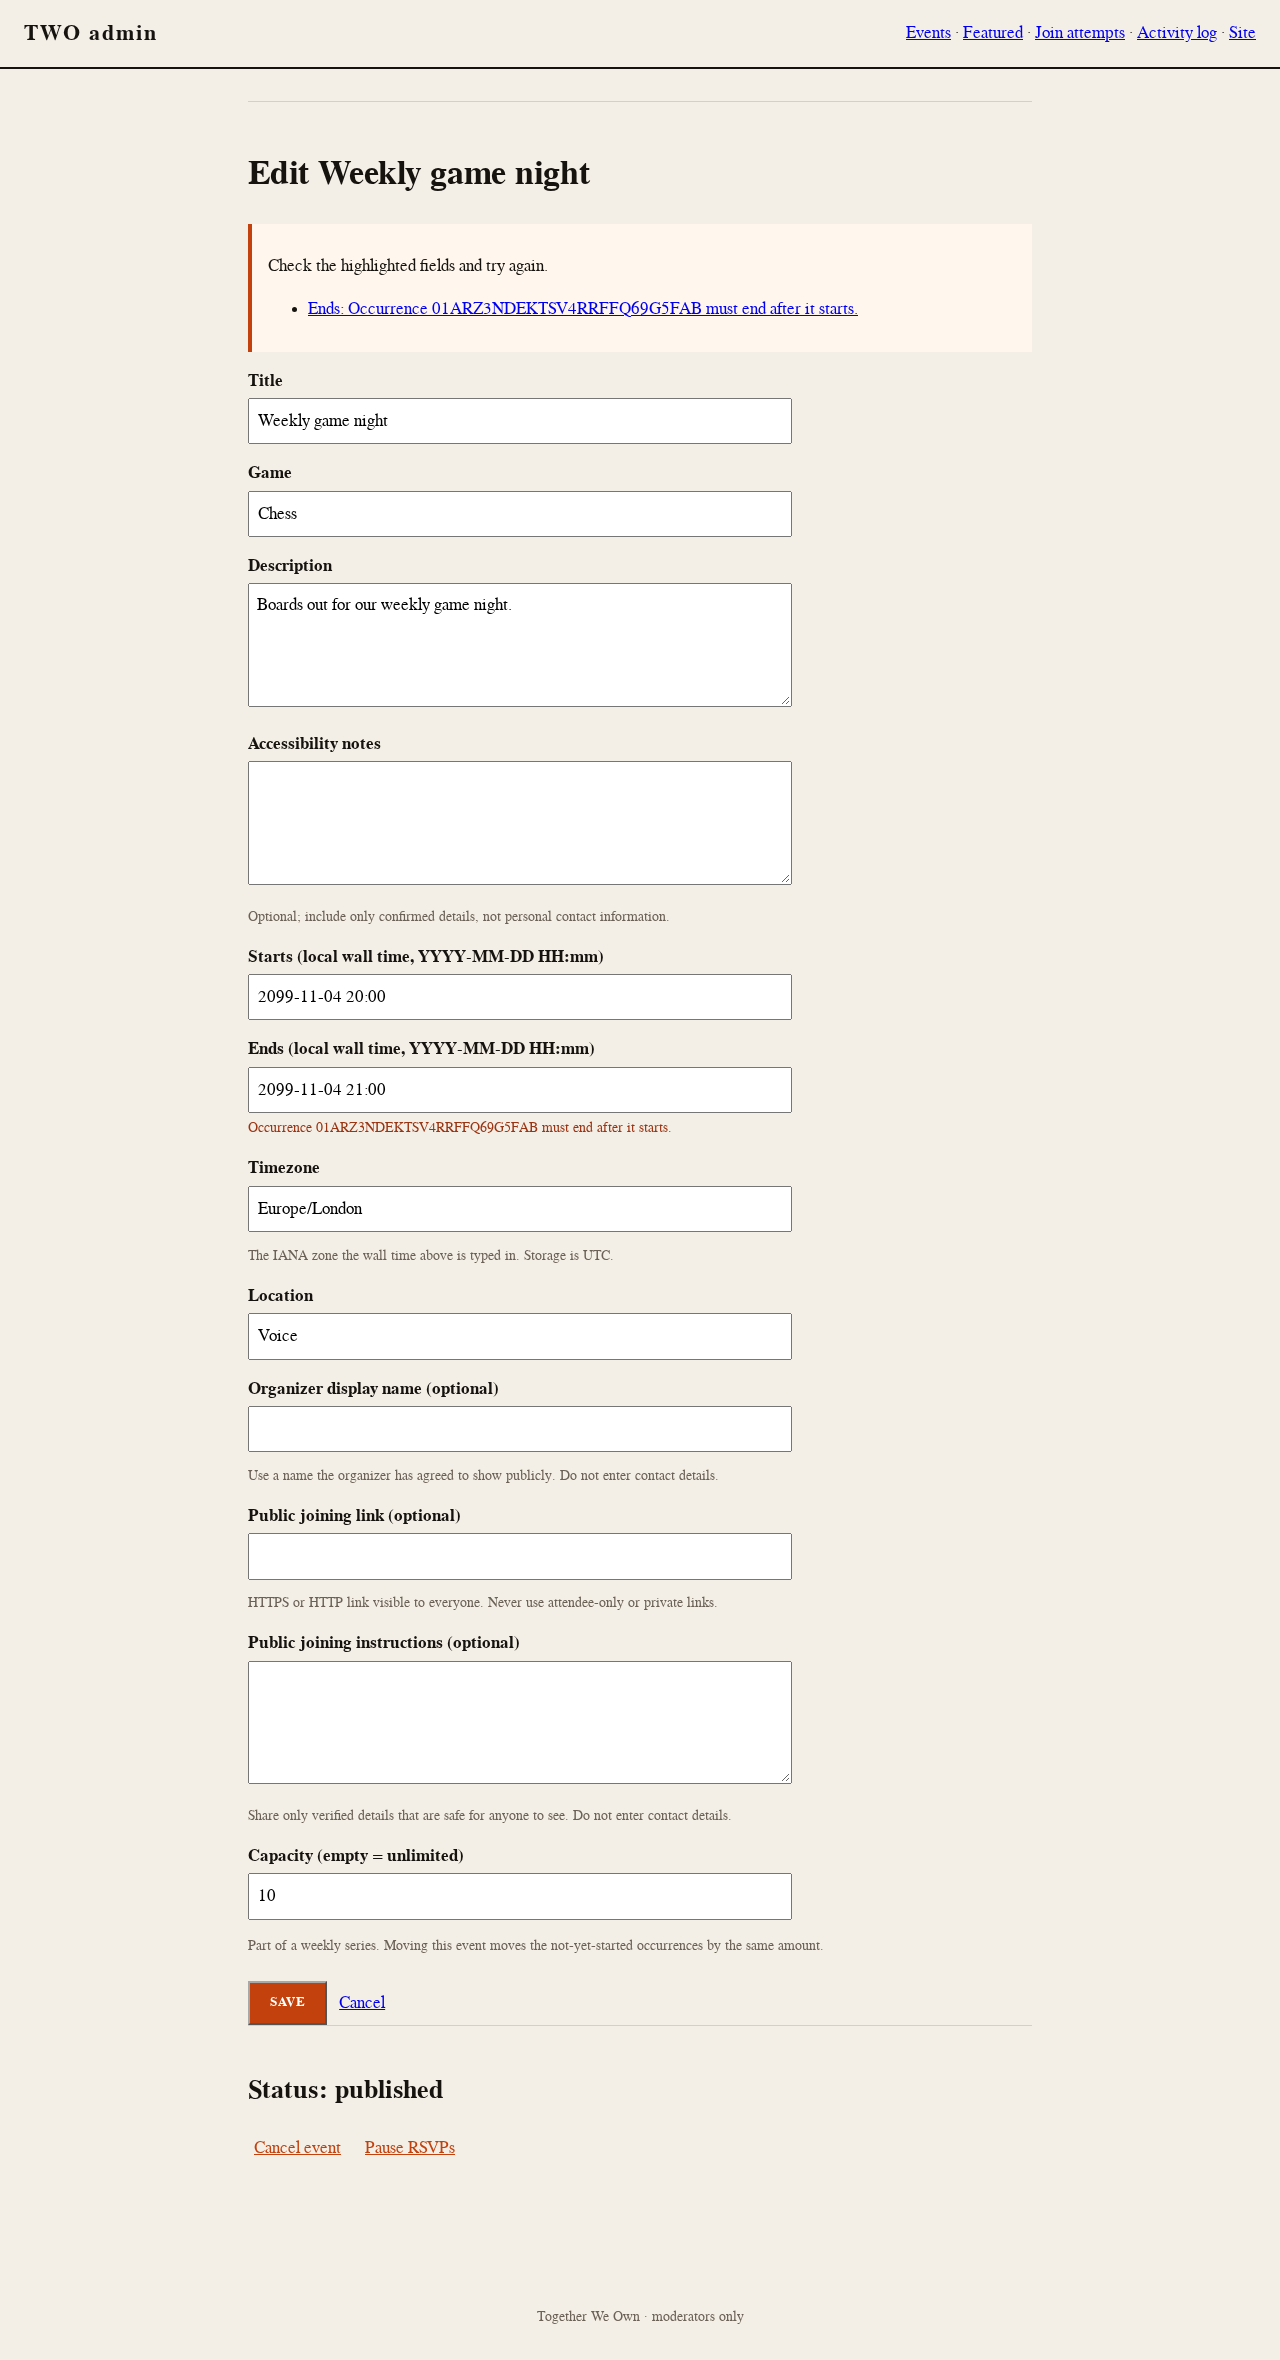
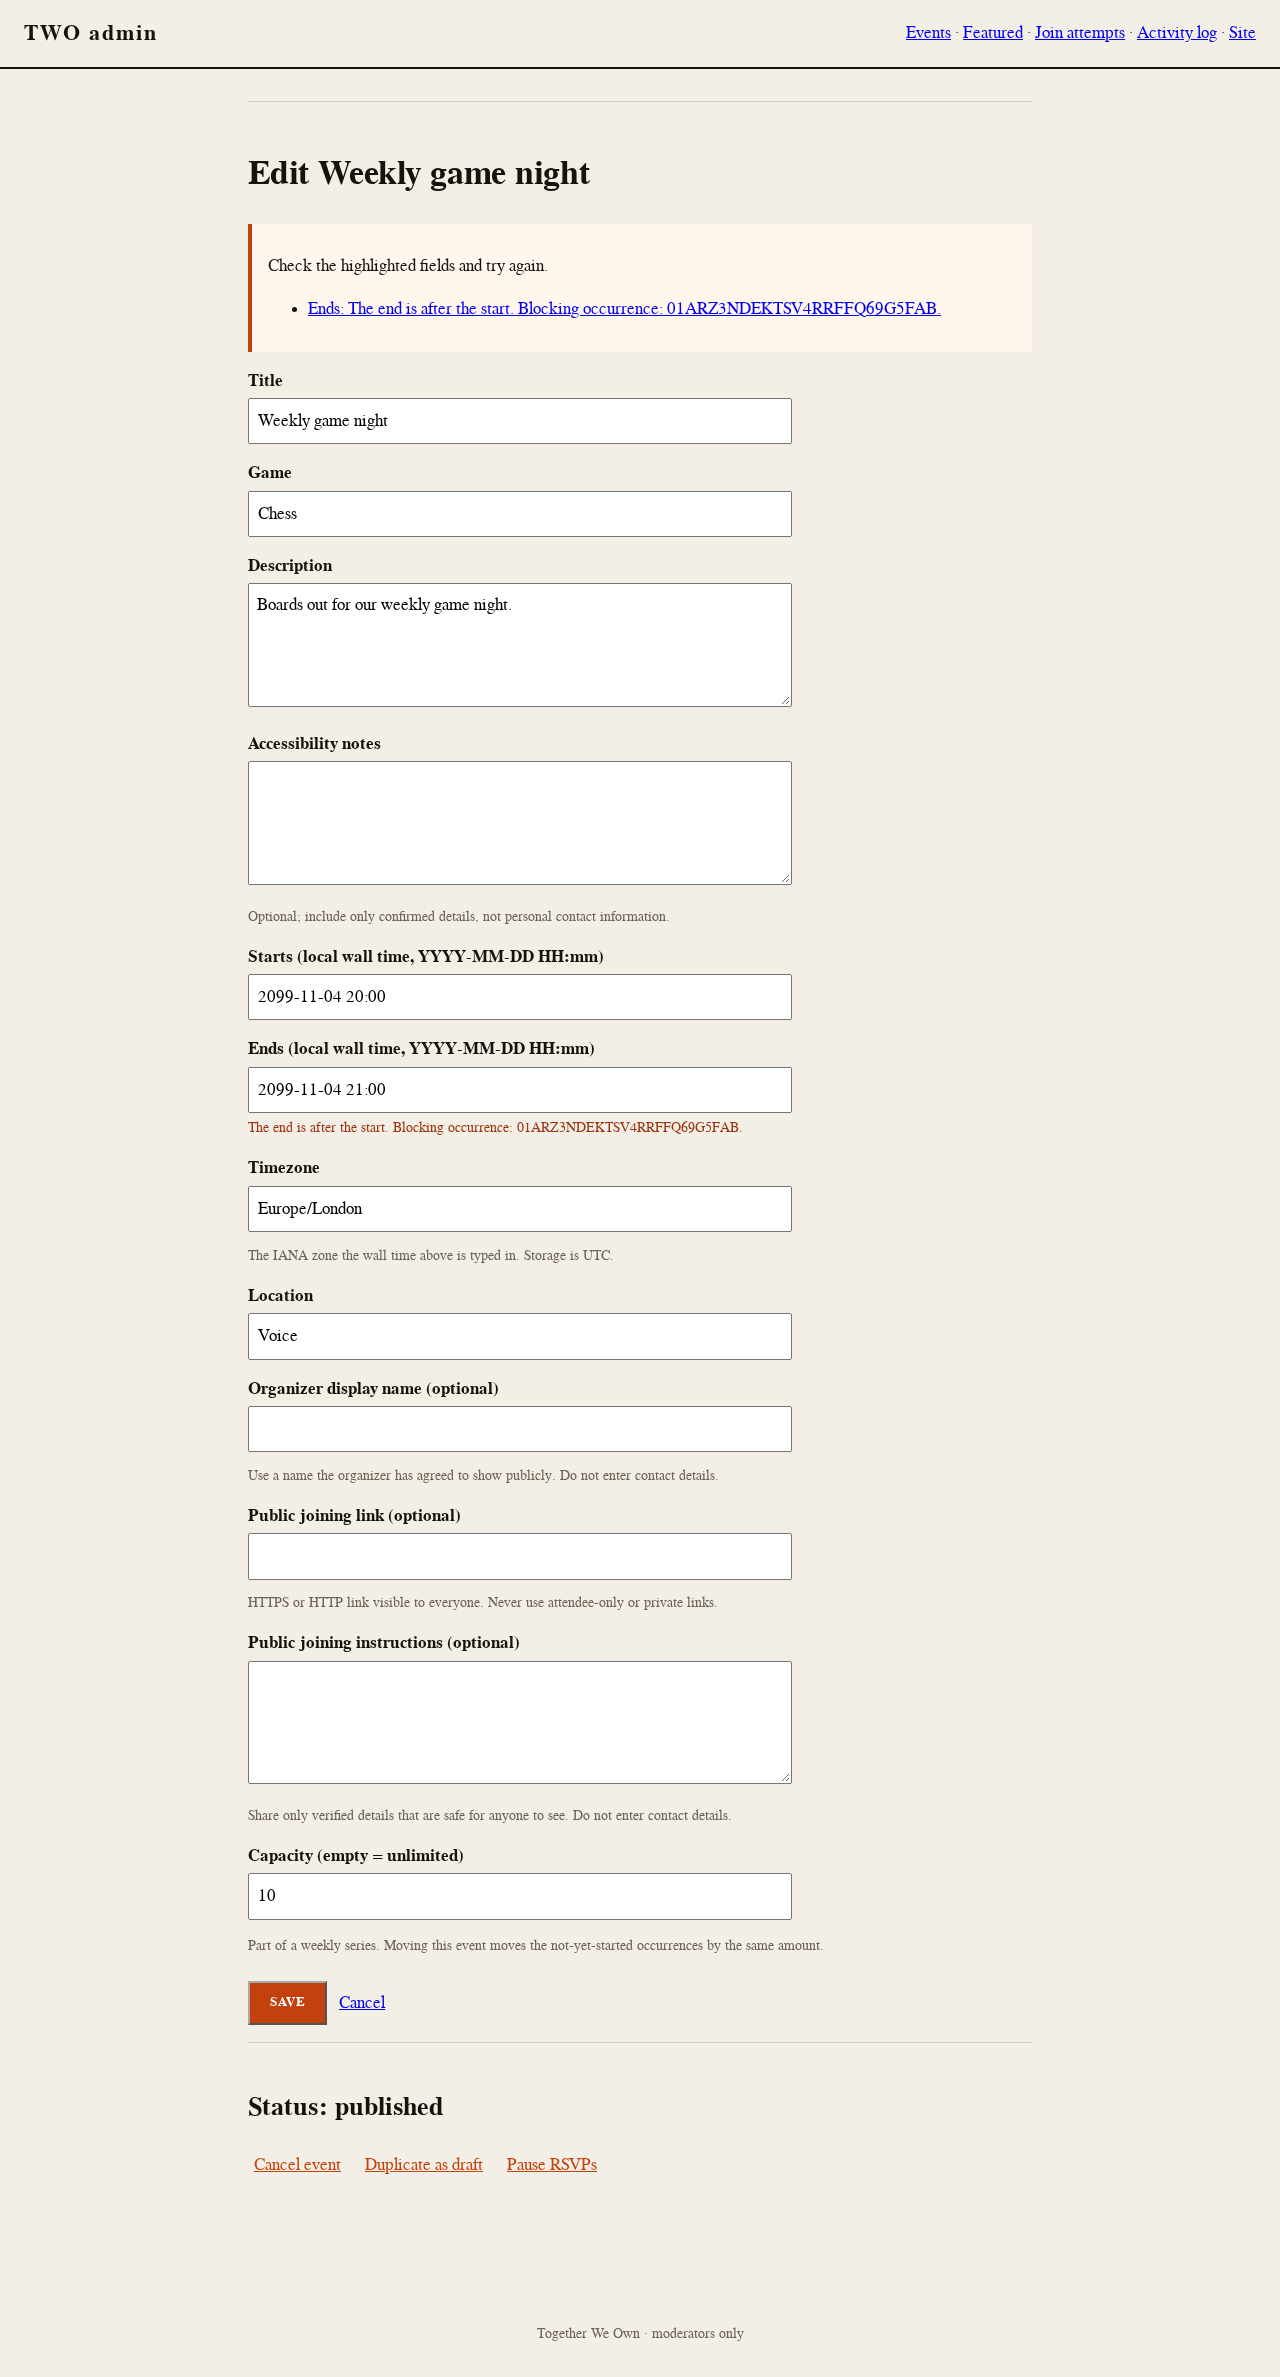
fix(events): preserve existing series refusal copy
Keep the validation sentence and append the selected occurrence key. Refresh native-form evidence and record the combined compatibility regression run.

diff --git a/src/admin/store-event-writes.ts b/src/admin/store-event-writes.ts
@@ -511,7 +511,7 @@ async function shiftFutureChildren(
     const proposedEnd = child.endsAt.getTime() + endDelta;
     if (proposedEnd <= proposedStart) {
       throw new ValidationError({
-        ends_at: `Occurrence ${child.eventKey} must end after it starts.`,
+        ends_at: `The end is after the start. Blocking occurrence: ${child.eventKey}.`,
       });
     }
   }

diff --git a/docs/evidence/series-blocking-occurrence/README.md b/docs/evidence/series-blocking-occurrence/README.md
@@ -25,6 +25,8 @@ The parent is 20:00–22:00, and its individually shortened future occurrence is
 
 All four images were opened for visual inspection. Both states at both widths have no horizontal overflow and no serious or critical axe violations. These are local Hono screenshots, not live staging evidence or Kit-route coverage. No visual baseline was changed; the existing public-page visual comparisons remain a separate CI gate.
 
+The after captures were refreshed after integrating the duplicate-event feature. That feature accounts for the extra **Duplicate as draft** action; this diagnostic change does not add a control. The final copy retains the existing sentence, then appends `Blocking occurrence: <public event key>.`, preserving existing consumers of the validation text.
+
 ## Acceptance verification
 
 The combined focused run executes both complete suites with the disposable test database supplied:
@@ -36,3 +38,11 @@ npx vitest run test/event-series-window-acceptance.test.ts test/event-series-pos
 Before implementation: **34 passed, 15 failed, 0 skipped**. Every failure was the missing blocking key. After implementation: **49 passed, 0 failed, 0 skipped**. The complete Hono accessibility gate also passed. These results do not claim completion of the remaining local, CI or release gates.
 
 The acceptance contribution is consumed unchanged from commit `567b507107990f7a37add4cca1bb5ea91561a77e`, retaining its author attribution. Neither acceptance file was rewritten by the implementer.
+
+The later duplicate-source regression suite also requires the original validation sentence. Before the compatibility correction, its complete run produced **35 passed, 2 failed, 0 skipped**. After retaining that sentence and appending the key, all three complete suites produced **86 passed, 0 failed, 0 skipped**:
+
+```sh
+npx vitest run test/event-duplicate-source-validation.test.ts test/event-series-window-acceptance.test.ts test/event-series-post-lock-eligibility.test.ts
+```
+
+The duplicate-source tests were not modified. Both acceptance-file hashes remain unchanged.
